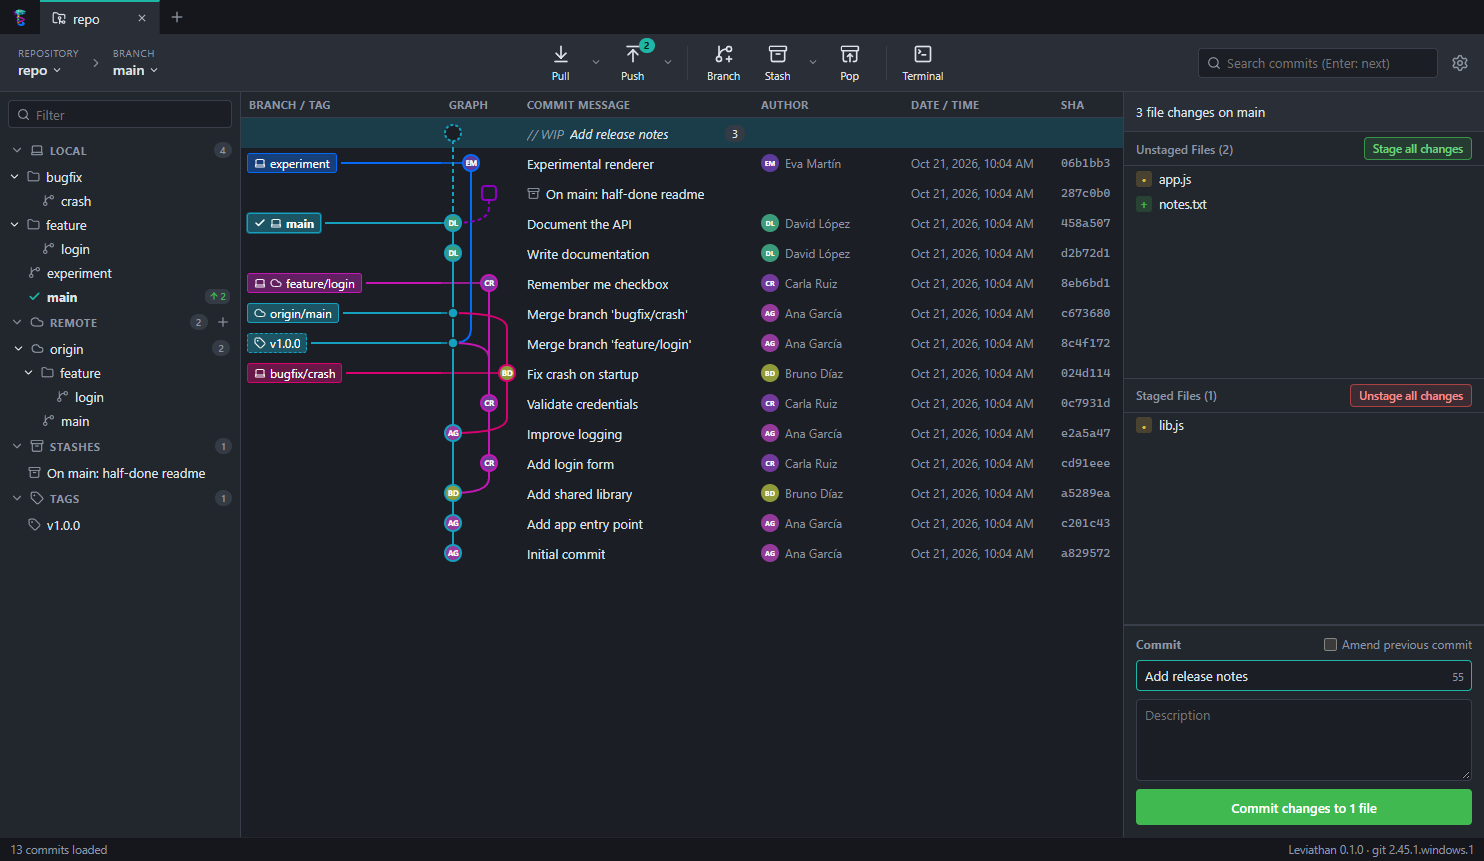
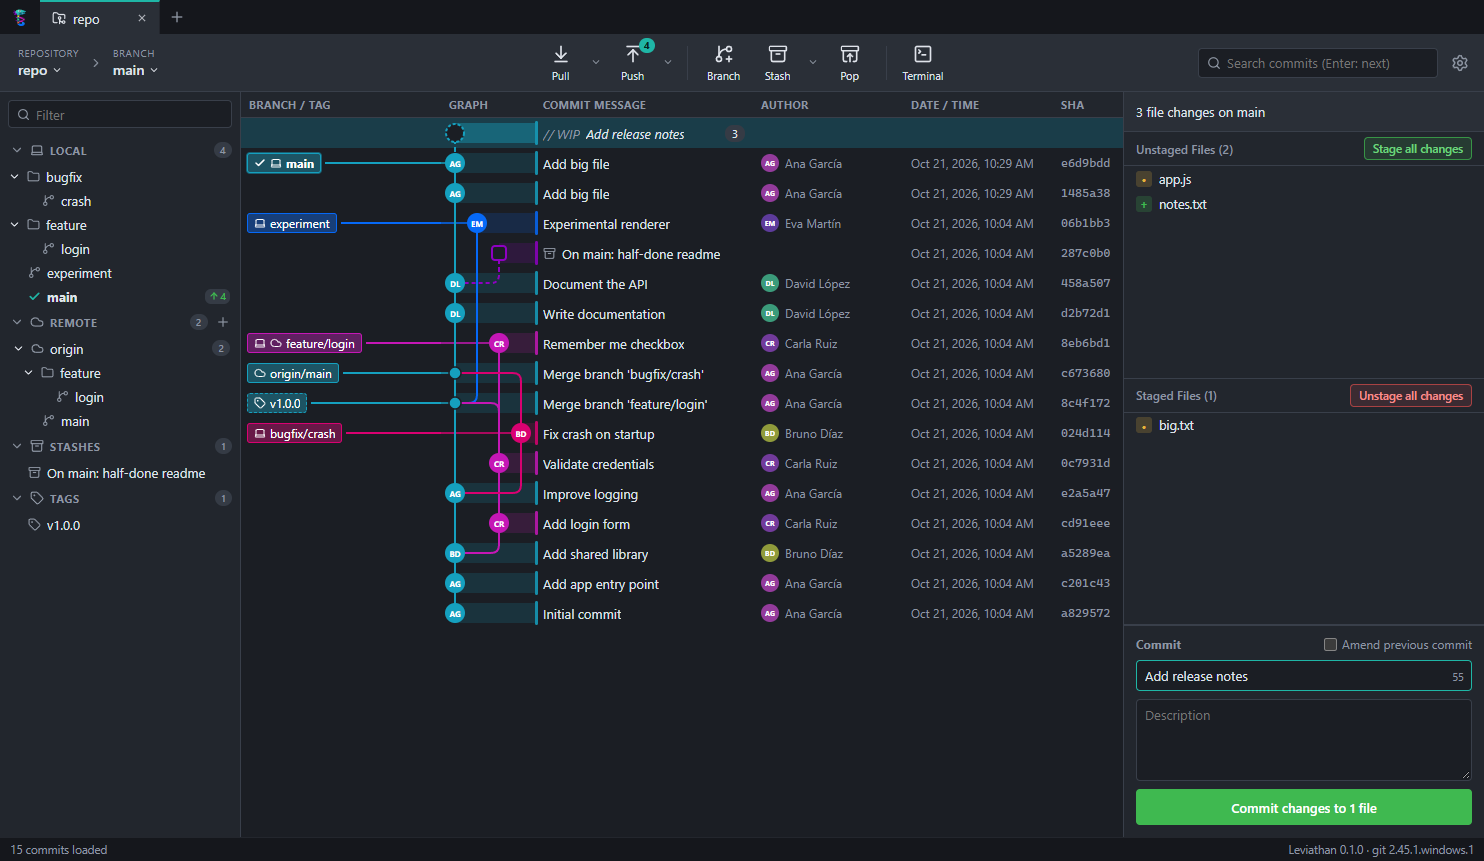
feat: elbow graph edges and lane-coloured row bands
Lanes now join and leave nodes with a vertical line, a rounded elbow and
a horizontal line instead of S-curves. Each row gets a translucent band
in its lane colour from the node to the edge of the graph and a coloured
bar at the start of the commit message. Nodes are larger and lanes wider.
Path geometry lives in src/shared/graphPaths.ts with unit tests.

diff --git a/src/renderer/src/components/CommitGraph.tsx b/src/renderer/src/components/CommitGraph.tsx
@@ -1,35 +1,20 @@
 import { memo, useEffect, useLayoutEffect, useMemo, useRef, useState, type CSSProperties } from 'react'
 import { Archive, Check, Cloud, Laptop, Tag } from 'lucide-react'
-import {
-  buildGraphItems,
-  layoutItems,
-  WIP_HASH,
-  type GraphItem,
-  type GraphLine,
-  type GraphRow
-} from '../../../shared/graph'
+import { buildGraphItems, layoutItems, WIP_HASH, type GraphItem, type GraphRow } from '../../../shared/graph'
+import { laneX, linePath, type GraphGeometry } from '../../../shared/graphPaths'
 import { checkoutRef, loadMore, selectCommit, selectWip } from '../actions'
 import { useT } from '../i18n'
 import { commitMenu, refMenu, stashMenu, wipMenu } from '../menus'
 import { useRepo, useStore } from '../store'
 import { openMenu } from '../ui'
-import {
-  cx,
-  formatDate,
-  groupRefs,
-  hashColor,
-  initials,
-  laneColor,
-  matchesFilter,
-  shortHash,
-  type RefLabel
-} from '../utils'
+import { cx, formatDate, groupRefs, initials, laneColor, matchesFilter, shortHash, type RefLabel } from '../utils'
 import { Avatar } from './common'
 
 const ROW_H = 30
-const LANE_W = 18
-const PAD = 12
-const NODE_R = 9
+const LANE_W = 22
+const PAD = 14
+const NODE_R = 10
+const GEOMETRY: GraphGeometry = { rowHeight: ROW_H, laneWidth: LANE_W, padding: PAD, radius: 8 }
 const MAX_LANES = 24
 const OVERSCAN = 12
 
@@ -55,7 +40,7 @@ export function CommitGraph({ path }: { path: string }) {
   const refMap = useMemo(() => groupRefs(state?.refs ?? []), [state?.refs])
   const lanes = Math.min(Math.max(layout.maxWidth, 1), MAX_LANES)
   const graphWidth = Math.max(PAD * 2 + (lanes - 1) * LANE_W, 64)
-  const columns = `200px ${graphWidth}px minmax(160px, 1fr) 150px 150px 70px`
+  const columns = `200px ${graphWidth}px minmax(140px, 1fr) minmax(90px, 150px) minmax(110px, 150px) 70px`
 
   const scrollRef = useRef<HTMLDivElement>(null)
   const [scrollTop, setScrollTop] = useState(0)
@@ -309,20 +294,6 @@ function RefPill({ path, label, color }: { path: string; label: RefLabel; color:
   )
 }
 
-function linePath(line: GraphLine, x: (col: number) => number): string {
-  const mid = ROW_H / 2
-  const x1 = x(line.from)
-  const x2 = x(line.to)
-  switch (line.kind) {
-    case 'full':
-      return `M ${x1} 0 V ${ROW_H}`
-    case 'top':
-      return x1 === x2 ? `M ${x1} 0 V ${mid}` : `M ${x1} 0 Q ${x1} ${mid} ${x2} ${mid}`
-    case 'bottom':
-      return x1 === x2 ? `M ${x1} ${mid} V ${ROW_H}` : `M ${x1} ${mid} Q ${x2} ${mid} ${x2} ${ROW_H}`
-  }
-}
-
 function GraphSvg({
   row,
   item,
@@ -334,9 +305,8 @@ function GraphSvg({
   width: number
   connector: boolean
 }) {
-  const x = (col: number) => PAD + col * LANE_W
   const mid = ROW_H / 2
-  const cx = x(row.column)
+  const cx = laneX(row.column, GEOMETRY)
   const color = laneColor(row.color)
 
   let node: React.ReactNode
@@ -345,15 +315,13 @@ function GraphSvg({
   } else if (item.kind === 'stash') {
     node = <rect x={cx - 7} y={mid - 7} width={14} height={14} rx={3} className="node-stash" stroke={color} />
   } else if (item.commit.parents.length > 1) {
-    node = <circle cx={cx} cy={mid} r={5} fill={color} className="node-merge" />
+    node = <circle cx={cx} cy={mid} r={6} fill={color} className="node-merge" />
   } else {
-    const c = item.commit
     node = (
       <g>
         <circle cx={cx} cy={mid} r={NODE_R} fill={color} />
-        <circle cx={cx} cy={mid} r={NODE_R - 2} fill={hashColor(c.authorEmail || c.authorName)} />
         <text x={cx} y={mid} className="node-initials">
-          {initials(c.authorName)}
+          {initials(item.commit.authorName)}
         </text>
       </g>
     )
@@ -361,11 +329,20 @@ function GraphSvg({
 
   return (
     <svg width={width} height={ROW_H} className="graph-svg">
+      {/* Translucent band from the node to the edge of the graph, in the lane colour. */}
+      <rect
+        x={cx}
+        y={mid - NODE_R}
+        width={Math.max(0, width - cx)}
+        height={NODE_R * 2}
+        fill={color}
+        className="row-band"
+      />
       {connector && <line x1={0} y1={mid} x2={cx} y2={mid} stroke={color} strokeWidth={1.5} />}
       {row.lines.map((line, i) => (
         <path
           key={i}
-          d={linePath(line, x)}
+          d={linePath(line, GEOMETRY)}
           stroke={laneColor(line.color)}
           strokeWidth={2}
           fill="none"

diff --git a/tests/graphPaths.test.ts b/tests/graphPaths.test.ts
@@ -1,0 +1,41 @@
+import { describe, expect, it } from 'vitest'
+import type { GraphLine } from '../src/shared/graph'
+import { laneX, linePath, type GraphGeometry } from '../src/shared/graphPaths'
+
+const g: GraphGeometry = { rowHeight: 30, laneWidth: 20, padding: 10, radius: 6 }
+const line = (from: number, to: number, kind: GraphLine['kind']): GraphLine => ({
+  from,
+  to,
+  kind,
+  color: 0,
+  dashed: false
+})
+
+describe('graph paths', () => {
+  it('places lanes at padding + column * laneWidth', () => {
+    expect(laneX(0, g)).toBe(10)
+    expect(laneX(3, g)).toBe(70)
+  })
+
+  it('draws pass-through lanes as full-height verticals', () => {
+    expect(linePath(line(1, 1, 'full'), g)).toBe('M 30 0 V 30')
+  })
+
+  it('draws straight halves when the lane does not change', () => {
+    expect(linePath(line(0, 0, 'top'), g)).toBe('M 10 0 V 15')
+    expect(linePath(line(0, 0, 'bottom'), g)).toBe('M 10 15 V 30')
+  })
+
+  it('joins a lane into a node with a vertical, a rounded elbow and a horizontal', () => {
+    expect(linePath(line(2, 0, 'top'), g)).toBe('M 50 0 V 9 Q 50 15 44 15 H 10')
+  })
+
+  it('leaves a node horizontally and turns down into the parent lane', () => {
+    expect(linePath(line(0, 1, 'bottom'), g)).toBe('M 10 15 H 24 Q 30 15 30 21 V 30')
+    expect(linePath(line(2, 0, 'bottom'), g)).toBe('M 50 15 H 16 Q 10 15 10 21 V 30')
+  })
+
+  it('never uses a corner radius larger than the space available', () => {
+    expect(linePath(line(1, 0, 'top'), { ...g, radius: 30 })).toBe('M 30 0 V 0 Q 30 15 15 15 H 10')
+  })
+})

diff --git a/src/shared/graphPaths.ts b/src/shared/graphPaths.ts
@@ -1,0 +1,37 @@
+import type { GraphLine } from './graph'
+
+/** Pixel layout of one graph row. */
+export interface GraphGeometry {
+  rowHeight: number
+  laneWidth: number
+  /** x of lane 0. */
+  padding: number
+  /** Corner radius of the elbows where a lane turns into or out of a node. */
+  radius: number
+}
+
+export function laneX(col: number, g: GraphGeometry): number {
+  return g.padding + col * g.laneWidth
+}
+
+/**
+ * SVG path for one segment of a row. Lanes run vertically; joining or leaving
+ * a node is drawn as a vertical, a rounded elbow and a horizontal line.
+ */
+export function linePath(line: GraphLine, g: GraphGeometry): string {
+  const h = g.rowHeight
+  const mid = h / 2
+  const x1 = laneX(line.from, g)
+  const x2 = laneX(line.to, g)
+  if (line.kind === 'full') return `M ${x1} 0 V ${h}`
+  if (x1 === x2) return line.kind === 'top' ? `M ${x1} 0 V ${mid}` : `M ${x1} ${mid} V ${h}`
+
+  const dir = Math.sign(x2 - x1)
+  const r = Math.min(g.radius, Math.abs(x2 - x1), mid)
+  if (line.kind === 'top') {
+    // Down the source lane, turn towards the node, run into it.
+    return `M ${x1} 0 V ${mid - r} Q ${x1} ${mid} ${x1 + dir * r} ${mid} H ${x2}`
+  }
+  // Out of the node towards the target lane, turn down, run to the bottom edge.
+  return `M ${x1} ${mid} H ${x2 - dir * r} Q ${x2} ${mid} ${x2} ${mid + r} V ${h}`
+}

diff --git a/src/renderer/src/styles/app.css b/src/renderer/src/styles/app.css
@@ -680,9 +680,21 @@ a:hover {
   stroke-width: 1.5;
 }
 
+.row-band {
+  opacity: 0.16;
+}
+
+.graph-row:hover .row-band {
+  opacity: 0.24;
+}
+
+.graph-row.selected .row-band {
+  opacity: 0.4;
+}
+
 .node-initials {
   fill: #fff;
-  font-size: 7.5px;
+  font-size: 8px;
   font-weight: 700;
   text-anchor: middle;
   dominant-baseline: central;
@@ -786,7 +798,25 @@ a:hover {
 }
 
 .msg-cell {
+  position: relative;
   color: var(--text);
+}
+
+/* Lane-coloured bar at the start of the message, as a continuation of the row band. */
+.msg-cell::before {
+  content: '';
+  position: absolute;
+  left: 0;
+  top: 3px;
+  bottom: 3px;
+  width: 3px;
+  border-radius: 2px;
+  background: var(--lane);
+  opacity: 0.85;
+}
+
+.graph-row.dimmed .msg-cell::before {
+  opacity: 0.3;
 }
 
 .wip-label {
